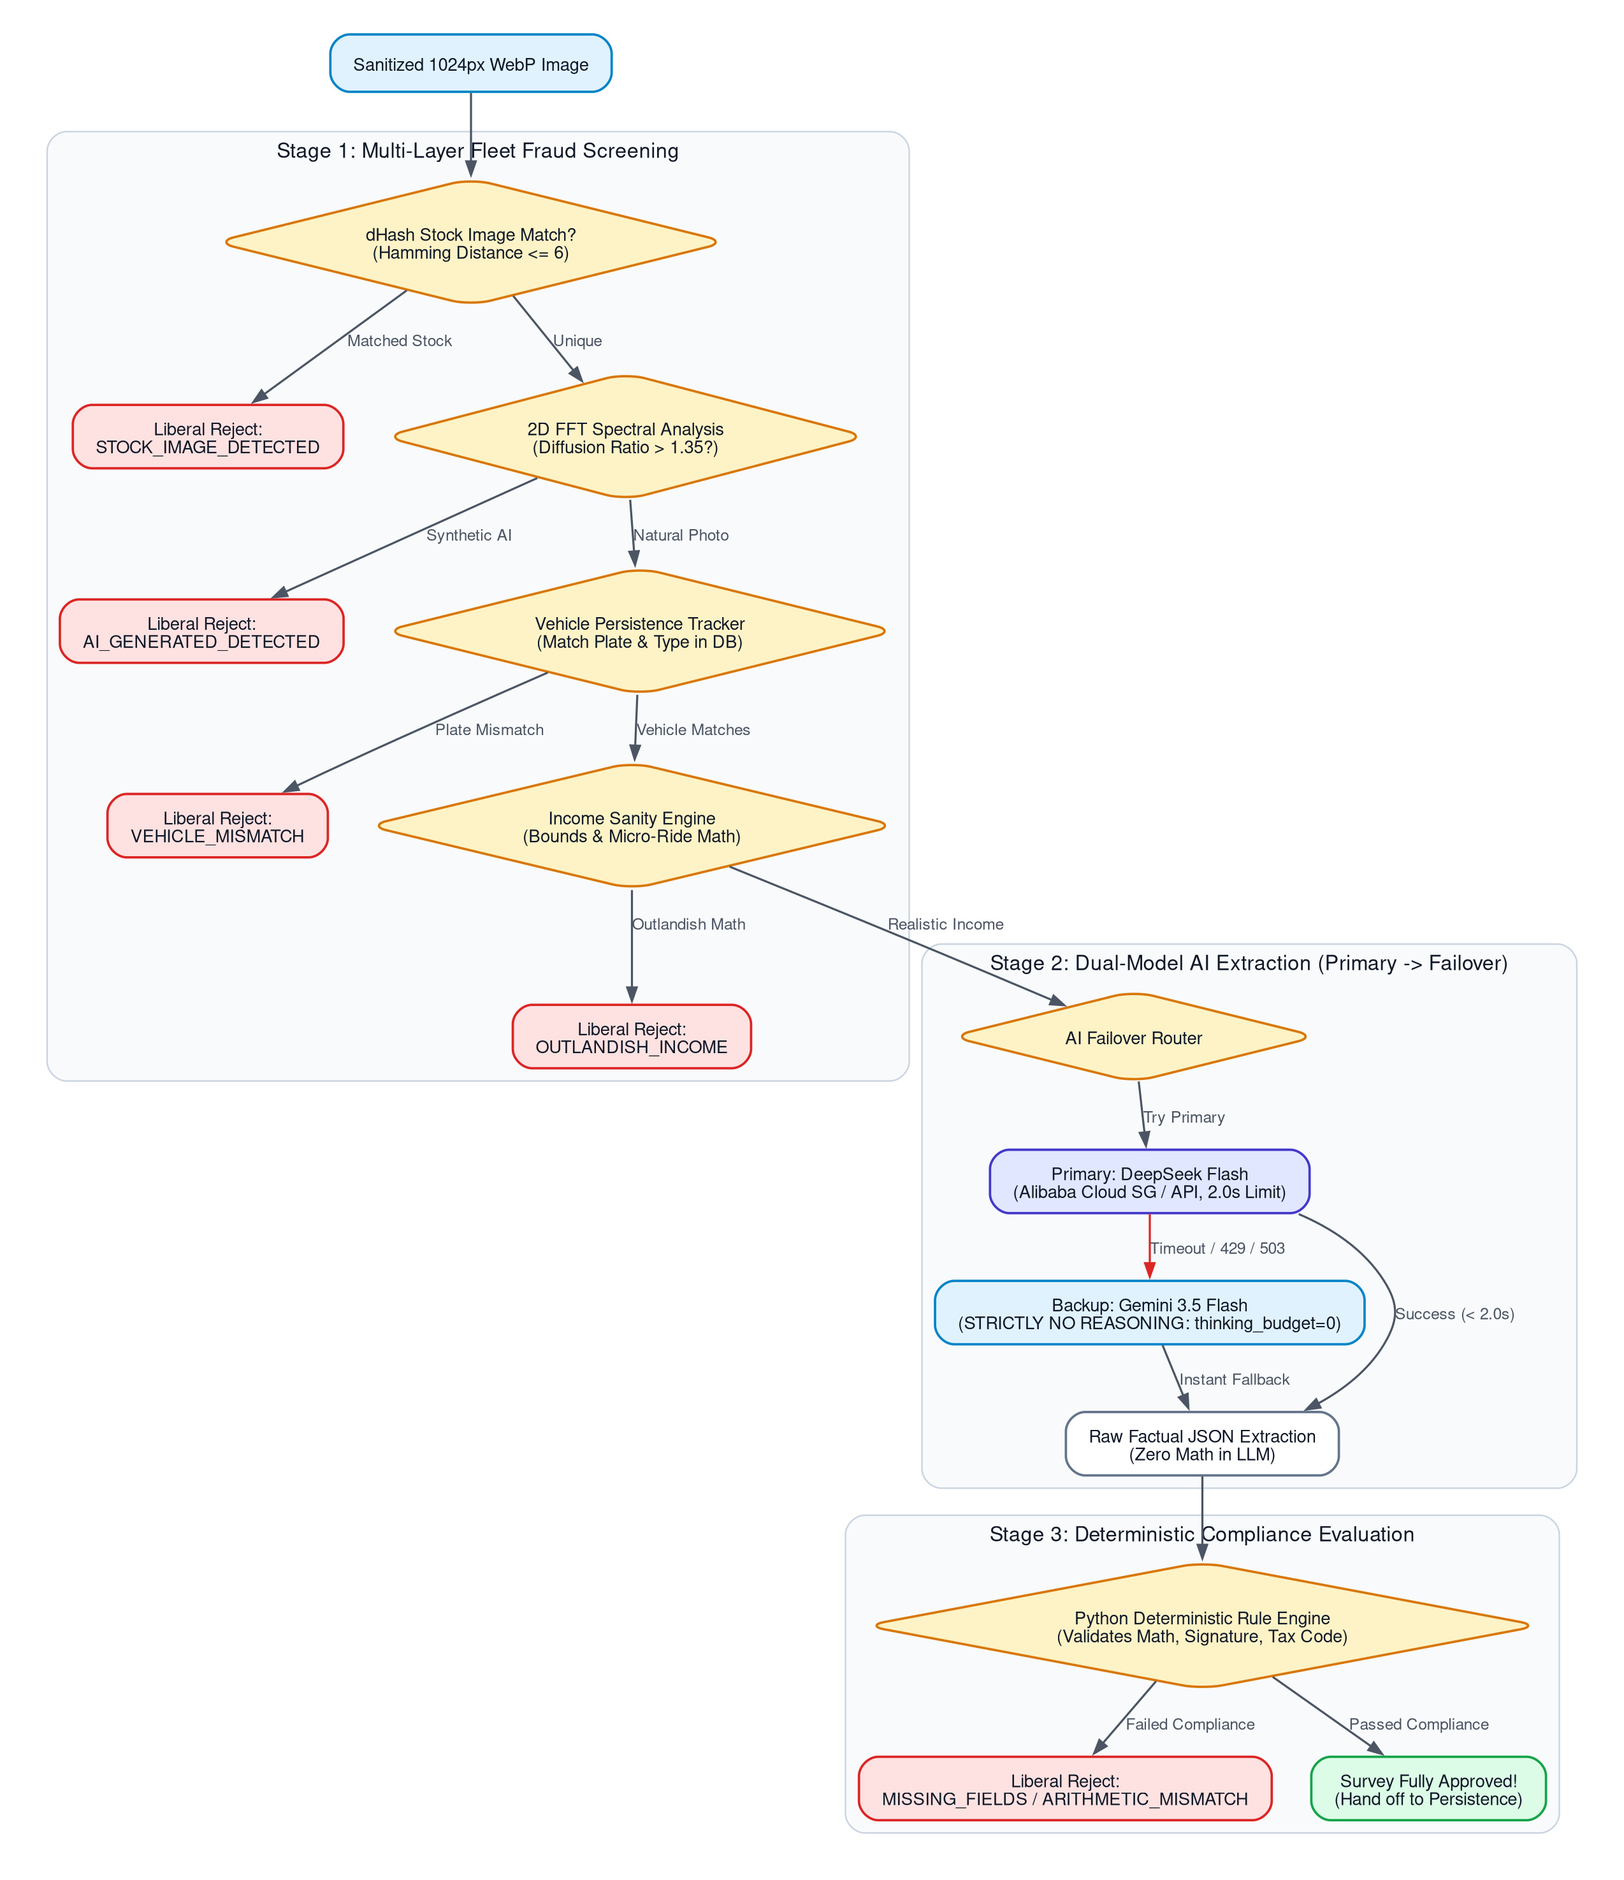
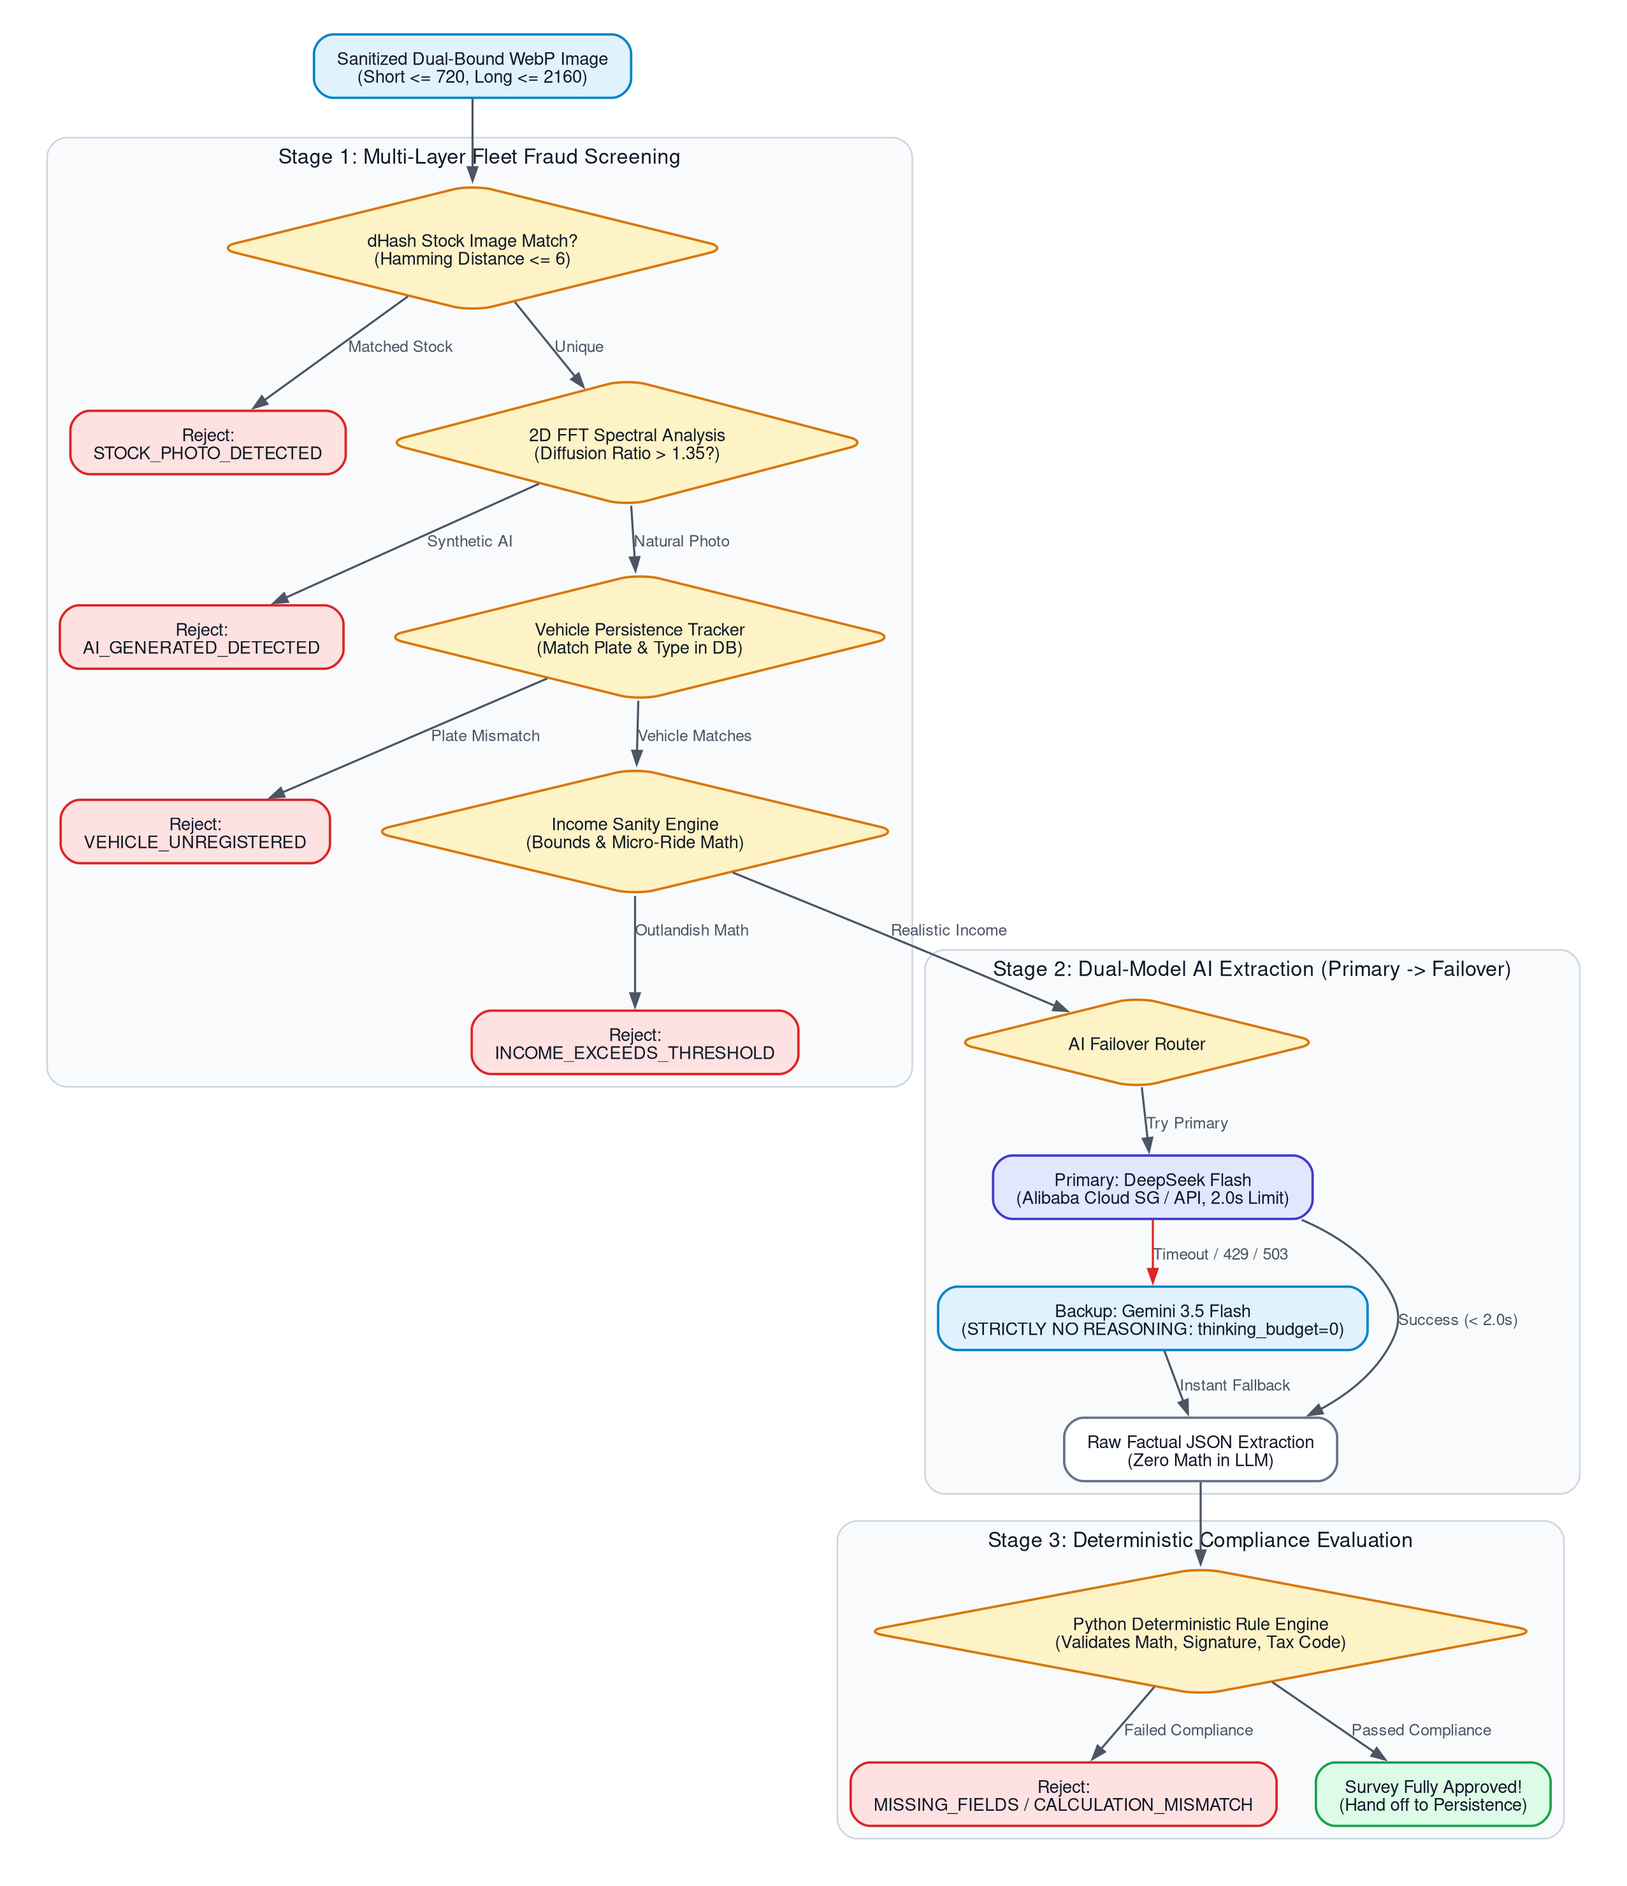
docs: re-render all 7 flowcharts with 720x2160 dual-edge bounds and ribbon protection

diff --git a/render_charts.py b/render_charts.py
@@ -64,7 +64,7 @@ CHART_1 = COMMON_HEADER + """
         caddy [label="Caddy TLS 1.3 Reverse Proxy\\n(25MB Body Cap)", fillcolor="#ffffff", color="#64748b"];
         fastapi [label="FastAPI Ingestion Gateway\\n(4 Uvicorn Workers)", fillcolor="#e0f2fe", color="#0284c7"];
         redis [label="Redis 7 Cache & Queue\\n(Session Locks & 3/8h Appeal Limit)", fillcolor="#fee2e2", color="#dc2626"];
-        sanitizer [label="In-Memory Sanitizer\\n(EXIF, ELA, Blur, Exposure)", fillcolor="#ffffff", color="#64748b"];
+        sanitizer [label="In-Memory Dual-Bound Sanitizer\\n(Short <= 720, Long <= 2160 WebP)", fillcolor="#ffffff", color="#64748b"];
         dual_ai [label="Dual AI Vision Extraction\\nPrimary: DeepSeek Flash (2.0s)\\nBackup: Gemini 3.5 (No Reasoning)", fillcolor="#e0e7ff", color="#4338ca"];
         rules [label="Python Deterministic Rule Engine\\n(Immune to Prompt Injection)", fillcolor="#dcfce7", color="#16a34a"];
         outbox_worker [label="Background Outbox Worker\\n(SKIP LOCKED Poller)", fillcolor="#fef3c7", color="#d97706"];
@@ -81,7 +81,7 @@ CHART_1 = COMMON_HEADER + """
         r2 [label="Cloudflare R2 Storage\\n(Permanent $0 Egress Archive)", fillcolor="#fef3c7", color="#d97706"];
         gdrive [label="Google Drive Folder\\n(Customer Deliverable Reports & Photos)", fillcolor="#dcfce7", color="#16a34a"];
         lark_cloud [label="Bytedance Lark Cloud Workspace\\n(Admin Grid, QC Kanban, Telesales)", fillcolor="#ede9fe", color="#7c3aed"];
-        zns [label="Zalo ZNS Gateway\\n(Official Thank-You to Driver - No Consent)", fillcolor="#e0f2fe", color="#0284c7"];
+        zns [label="Zalo ZNS Gateway\\n(Official Thank-You to Driver Phone)", fillcolor="#e0f2fe", color="#0284c7"];
     }
 
     driver -> caddy [label="Submit Form"];
@@ -164,30 +164,30 @@ digraph G {
         exif_scan [label="Scan EXIF Tag 305\\n(Detect Photoshop, Canva, Snapseed, Lightroom)", fillcolor="#ffffff", color="#64748b"];
         ela_scan [label="Error Level Analysis (ELA)\\n(Detect Localized Splicing/Cloning)", fillcolor="#ffffff", color="#64748b"];
         tamper_gate [label="Digital Tampering Found?", shape=diamond, fillcolor="#fef3c7", color="#d97706"];
-        rej_tamper [label="Liberal Reject:\\nDIGITAL_TAMPERING", fillcolor="#fee2e2", color="#dc2626"];
+        rej_tamper [label="Reject:\\nDIGITAL_TAMPERING", fillcolor="#fee2e2", color="#dc2626"];
     }
 
     subgraph cluster_normalize {
         label="Stage 2: In-Memory Normalization & Bug Elimination";
         style="rounded,filled"; fillcolor="#f8fafc"; color="#cbd5e1";
-        draft_scale [label="libjpeg C Draft Scaling\\nim.draft('RGB', (1024, 1024))\\n(85% RAM Reduction)", fillcolor="#ffffff", color="#64748b"];
+        draft_scale [label="libjpeg C Draft Scaling\\nim.draft('RGB', (720, 720))\\n(85% RAM Reduction)", fillcolor="#ffffff", color="#64748b"];
         exif_trans [label="Pillow exif_transpose\\n(Auto-Rotate Mobile Orientation)", fillcolor="#ffffff", color="#64748b"];
         purge_exif [label="Purge EXIF Metadata (exif=b'')\\n(Kills Double-Rotation Bug)", fillcolor="#ffffff", color="#64748b"];
         alpha_canvas [label="White Canvas Alpha Composite\\n(Kills RGBA/P Blackout Bug)", fillcolor="#ffffff", color="#64748b"];
-        webp_enc [label="Lanczos 1024px WebP Encoding\\n(Quality 82, ~49KB Payload)", fillcolor="#ffffff", color="#64748b"];
+        webp_enc [label="Lanczos Dual-Bound WebP Encoding\\n(Short <= 720, Long <= 2160, Ratio <= 6)\\n(Quality 82, ~49KB Payload)", fillcolor="#ffffff", color="#64748b"];
     }
 
     subgraph cluster_quality {
         label="Stage 3: Physical Quality & Exposure Pre-Filters";
         style="rounded,filled"; fillcolor="#f8fafc"; color="#cbd5e1";
         blur_gate [label="OpenCV Laplacian Blur Check\\n(Variance >= 100.0)", shape=diamond, fillcolor="#fef3c7", color="#d97706"];
-        rej_blur [label="Liberal Reject:\\nIMAGE_TOO_BLURRY", fillcolor="#fee2e2", color="#dc2626"];
+        rej_blur [label="Reject:\\nIMAGE_TOO_BLURRY", fillcolor="#fee2e2", color="#dc2626"];
         is_screen [label="Digital UI Screenshot Check\\n(is_digital_screenshot)", shape=diamond, fillcolor="#fef3c7", color="#d97706"];
         exempt_screen [label="EXEMPT From Exposure Checks\\n(Dark Mode & Light Themes 100% Safe)", fillcolor="#dcfce7", color="#16a34a"];
         p95_check [label="Physical Photo: 95th Percentile\\np95 Peak Brightness < 35?", shape=diamond, fillcolor="#fef3c7", color="#d97706"];
-        rej_dark [label="Liberal Reject:\\nIMAGE_TOO_DARK", fillcolor="#fee2e2", color="#dc2626"];
+        rej_dark [label="Reject:\\nIMAGE_TOO_DARK", fillcolor="#fee2e2", color="#dc2626"];
         glare_check [label="Specular Glare Check\\n(Flash Halo Destroys Text Edges?)", shape=diamond, fillcolor="#fef3c7", color="#d97706"];
-        rej_glare [label="Liberal Reject:\\nSPECULAR_GLARE", fillcolor="#fee2e2", color="#dc2626"];
+        rej_glare [label="Reject:\\nSPECULAR_GLARE", fillcolor="#fee2e2", color="#dc2626"];
         pass_quality [label="Quality Gate PASSED\\n(Hand off to Fleet Screening & AI)", fillcolor="#dcfce7", color="#16a34a"];
     }
 
@@ -214,19 +214,19 @@ digraph G {
     node [fontname="Helvetica, Arial, sans-serif", fontsize=11, fontcolor="#111827", shape=box, style="rounded,filled", fillcolor="#f9fafb", color="#9ca3af", penwidth=1.5, margin="0.2,0.12"];
     edge [fontname="Helvetica, Arial, sans-serif", fontsize=10, fontcolor="#4b5563", color="#4b5563", penwidth=1.3, arrowsize=0.85];
 
-    img_in [label="Sanitized 1024px WebP Image", fillcolor="#e0f2fe", color="#0284c7"];
+    img_in [label="Sanitized Dual-Bound WebP Image\\n(Short <= 720, Long <= 2160)", fillcolor="#e0f2fe", color="#0284c7"];
 
     subgraph cluster_fleet_fraud {
         label="Stage 1: Multi-Layer Fleet Fraud Screening";
         style="rounded,filled"; fillcolor="#f8fafc"; color="#cbd5e1";
         dhash [label="dHash Stock Image Match?\\n(Hamming Distance <= 6)", shape=diamond, fillcolor="#fef3c7", color="#d97706"];
-        rej_stock [label="Liberal Reject:\\nSTOCK_IMAGE_DETECTED", fillcolor="#fee2e2", color="#dc2626"];
+        rej_stock [label="Reject:\\nSTOCK_PHOTO_DETECTED", fillcolor="#fee2e2", color="#dc2626"];
         fft [label="2D FFT Spectral Analysis\\n(Diffusion Ratio > 1.35?)", shape=diamond, fillcolor="#fef3c7", color="#d97706"];
-        rej_ai [label="Liberal Reject:\\nAI_GENERATED_DETECTED", fillcolor="#fee2e2", color="#dc2626"];
+        rej_ai [label="Reject:\\nAI_GENERATED_DETECTED", fillcolor="#fee2e2", color="#dc2626"];
         veh_tracker [label="Vehicle Persistence Tracker\\n(Match Plate & Type in DB)", shape=diamond, fillcolor="#fef3c7", color="#d97706"];
-        rej_veh [label="Liberal Reject:\\nVEHICLE_MISMATCH", fillcolor="#fee2e2", color="#dc2626"];
+        rej_veh [label="Reject:\\nVEHICLE_UNREGISTERED", fillcolor="#fee2e2", color="#dc2626"];
         income_check [label="Income Sanity Engine\\n(Bounds & Micro-Ride Math)", shape=diamond, fillcolor="#fef3c7", color="#d97706"];
-        rej_income [label="Liberal Reject:\\nOUTLANDISH_INCOME", fillcolor="#fee2e2", color="#dc2626"];
+        rej_income [label="Reject:\\nINCOME_EXCEEDS_THRESHOLD", fillcolor="#fee2e2", color="#dc2626"];
     }
 
     subgraph cluster_dual_ai {
@@ -242,7 +242,7 @@ digraph G {
         label="Stage 3: Deterministic Compliance Evaluation";
         style="rounded,filled"; fillcolor="#f8fafc"; color="#cbd5e1";
         py_rules [label="Python Deterministic Rule Engine\\n(Validates Math, Signature, Tax Code)", shape=diamond, fillcolor="#fef3c7", color="#d97706"];
-        rej_rules [label="Liberal Reject:\\nMISSING_FIELDS / ARITHMETIC_MISMATCH", fillcolor="#fee2e2", color="#dc2626"];
+        rej_rules [label="Reject:\\nMISSING_FIELDS / CALCULATION_MISMATCH", fillcolor="#fee2e2", color="#dc2626"];
         approved [label="Survey Fully Approved!\\n(Hand off to Persistence)", fillcolor="#dcfce7", color="#16a34a"];
     }
 
@@ -279,6 +279,7 @@ CHART_5 = COMMON_HEADER + """
         sql_tx [label="PostgreSQL Atomic Transaction\\n(BEGIN ... COMMIT)", fillcolor="#ffffff", color="#64748b"];
         sub_table [label="INSERT survey_submissions\\n(status = APPROVED)", fillcolor="#e0f2fe", color="#0284c7"];
         outbox_table [label="INSERT outbox_events\\n(status = PENDING)", fillcolor="#fee2e2", color="#dc2626"];
+        tg_push [label="Telegram Bot API Push\\n(Dispatches Instant Approval Notice to Driver)", fillcolor="#e0f2fe", color="#0284c7"];
 
         poller [label="Background Outbox Worker\\n(SELECT FOR UPDATE SKIP LOCKED)", fillcolor="#fef3c7", color="#d97706"];
         r2_upload [label="Cloudflare R2 Object Storage\\n(Upload WebP, $0 Egress)", fillcolor="#ffffff", color="#64748b"];
@@ -288,12 +289,12 @@ CHART_5 = COMMON_HEADER + """
         gdrive_folder [label="Customer Delivery Folder\\n(YYYY-MM-DD/Client_Spreadsheet.xlsx)", fillcolor="#dcfce7", color="#16a34a"];
 
         lark_sync [label="Lark Base Bi-directional Sync\\n(Updates Management Dashboard)", fillcolor="#ede9fe", color="#7c3aed"];
-        zns_notify [label="Zalo ZNS Official Thank-You\\n(Delivered to Driver Phone - No Consent)", fillcolor="#e0f2fe", color="#0284c7"];
+        zns_notify [label="Zalo ZNS Official Thank-You\\n(Delivered to Driver Phone)", fillcolor="#e0f2fe", color="#0284c7"];
     }
-
     approved_in -> sql_tx;
     sql_tx -> sub_table;
     sql_tx -> outbox_table;
+    sub_table -> tg_push [label="Committed State -> Immediate Push"];
     outbox_table -> poller [label="Poll Events"];
     poller -> r2_upload;
     poller -> ledger_credit;
@@ -310,47 +311,52 @@ digraph G {
     node [fontname="Helvetica, Arial, sans-serif", fontsize=11, fontcolor="#111827", shape=box, style="rounded,filled", fillcolor="#f9fafb", color="#9ca3af", penwidth=1.5, margin="0.2,0.12"];
     edge [fontname="Helvetica, Arial, sans-serif", fontsize=10, fontcolor="#4b5563", color="#4b5563", penwidth=1.3, arrowsize=0.85];
 
-    subgraph cluster_group_hub {
-        label="1. Telegram Group Operational Hub (Drivers + Admins + Bot in Same Group)";
+    subgraph cluster_driver_flow {
+        label="1. Driver Private 1-to-1 Chat (Isolated & Privacy-Guaranteed)";
         style="rounded,filled"; fillcolor="#f8fafc"; color="#cbd5e1";
-        tg_group [label="Telegram Group Chat / Forum\\n(Drivers interact with Bot; Admins monitor all activity live)", fillcolor="#e0f2fe", color="#0284c7"];
-        driver_post [label="Driver Interacts in Group:\\nPosts replacement photo / taps buttons / asks bot", fillcolor="#ffffff", color="#64748b"];
-        bot_reply [label="Bot Direct Reply in Group:\\nQuotes driver with specific retake guidance & inline buttons", fillcolor="#dcfce7", color="#16a34a"];
-        admin_monitor [label="Admins Live Oversight:\\nAdmins see all driver uploads, tickets & bot replies in real time", fillcolor="#fef3c7", color="#d97706"];
+        driver_dm [label="Driver in Private 1-to-1 DM with Bot\\n(Driver strictly sees ONLY their own chat & results)", fillcolor="#e0f2fe", color="#0284c7"];
+        bot_msg [label="Bot Rejection / Notice in DM:\\nQuotes exact guidance & shows appeal button", fillcolor="#dcfce7", color="#16a34a"];
+        retake_photo [label="Driver Snaps & Sends Replacement Photo in DM\\n(Patches Slot in DB & R2 -> Approved!)", fillcolor="#dcfce7", color="#16a34a"];
+        appeal_btn [label="Driver Taps Inline Button in DM:\\n🙋 Yêu cầu kiểm tra lại", fillcolor="#fef3c7", color="#d97706"];
+    }
+
+    subgraph cluster_relay_group {
+        label="2. Management Group Relay & Live Supervision (All Activity Forwarded)";
+        style="rounded,filled"; fillcolor="#f8fafc"; color="#cbd5e1";
+        admin_group [label="Telegram Management / Admin Group(s)\\n(Bot relays ALL driver messages, photos & bot replies live)", fillcolor="#fef3c7", color="#d97706"];
+        mod_action [label="Admins Moderate Directly in Group\\n1-Click Buttons: [Duyệt] [Từ chối] [Cảnh cáo] [Đổi xe]", fillcolor="#ffffff", color="#64748b"];
     }
 
     subgraph cluster_appeal_limit {
-        label="2. Rate-Limited Appeal & Ephemeral Privacy Popups";
+        label="3. Rate-Limited Appeal & Quota Notification (Max 3 / 8h)";
         style="rounded,filled"; fillcolor="#f8fafc"; color="#cbd5e1";
-        appeal_btn [label="Driver Taps Inline Button in Group:\\n🙋 Yêu cầu người thật kiểm tra lại", fillcolor="#fef3c7", color="#d97706"];
         redis_limit [label="Redis Counter Check:\\nAppeals in Last 8 Hours?", shape=diamond, fillcolor="#fef3c7", color="#d97706"];
-        block_popup [label="Ephemeral Popup Alert (showAlert=True):\\nBẠN ĐÃ DÙNG HẾT LƯỢT KHIẾU NẠI TRONG 8H\\n(Only tapping driver sees popup; others see nothing!)", fillcolor="#fee2e2", color="#dc2626"];
-        allow_appeal [label="Allow Appeal (<= 3 in 8h):\\nIncrement 8h Counter & Alert Admins in Group", fillcolor="#dcfce7", color="#16a34a"];
+        block_popup [label="Block Appeal (> 3 in 8h):\\nBẠN ĐÃ DÙNG HẾT LƯỢT KHIẾU NẠI TRONG 8H\\n(Driver informed of quota exhaustion)", fillcolor="#fee2e2", color="#dc2626"];
+        allow_appeal [label="Allow Appeal (<= 3 in 8h):\\nIncrement 8h Counter & Forward Ticket to Management Group\\n(Bot notifies: Còn X/3 lượt trong 8h)", fillcolor="#dcfce7", color="#16a34a"];
     }
 
-    subgraph cluster_admin_controls {
-        label="3. Admin Live Moderation & Dispatch Controls";
-        style="rounded,filled"; fillcolor="#f8fafc"; color="#cbd5e1";
-        mod_action [label="Admins Moderate Directly in Group\\n1-Click Buttons: [Duyệt] [Từ chối] [Cảnh cáo]", fillcolor="#ffffff", color="#64748b"];
-        mod_dispatch [label="Admin Action Choice", shape=diamond, fillcolor="#fef3c7", color="#d97706"];
-        action_approve [label="Force Approve:\\nPatch status=APPROVED -> Credit payout & sync client", fillcolor="#dcfce7", color="#16a34a"];
-        action_reject [label="Confirm Reject:\\nBot informs driver with reason code in group thread", fillcolor="#fee2e2", color="#dc2626"];
-        action_warn [label="Formal Warning:\\nBot issues compliance warning to driver", fillcolor="#fee2e2", color="#dc2626"];
-    }
-
-    tg_group -> driver_post -> bot_reply;
-    tg_group -> admin_monitor;
-    bot_reply -> appeal_btn -> redis_limit;
+    driver_dm -> bot_msg;
+    bot_msg -> retake_photo;
+    bot_msg -> appeal_btn -> redis_limit;
     redis_limit -> block_popup [label="> 3 Appeals"];
     redis_limit -> allow_appeal [label="<= 3 Appeals"];
-    allow_appeal -> mod_action;
+    allow_appeal -> admin_group;
+    driver_dm -> admin_group [label="Bot Relays All Activity", color="#0284c7"];
+    bot_msg -> admin_group [label="Bot Relays All Activity", color="#0284c7"];
+    admin_group -> mod_action;
+    mod_dispatch [label="Admin Action Choice", shape=diamond, fillcolor="#fef3c7", color="#d97706"];
+    action_approve [label="[Duyệt] -> Payout Credited & Client Synced", fillcolor="#dcfce7", color="#16a34a"];
+    action_reject [label="[Từ chối] -> Rejection Confirmed", fillcolor="#fee2e2", color="#dc2626"];
+    action_warn [label="[Cảnh cáo] -> Warning Dispatched", fillcolor="#fee2e2", color="#dc2626"];
+    action_change [label="[Đổi xe] -> Update Persistent Vehicle Plate & Audit", fillcolor="#ede9fe", color="#7c3aed"];
 
     mod_action -> mod_dispatch;
-    mod_dispatch -> action_approve [label="[Duyệt]"];
-    mod_dispatch -> action_reject [label="[Từ chối]"];
-    mod_dispatch -> action_warn [label="[Cảnh cáo]"];
-    action_approve -> bot_reply;
-    action_reject -> bot_reply;
+    mod_dispatch -> action_approve [label="Click Duyệt"];
+    mod_dispatch -> action_reject [label="Click Từ chối"];
+    mod_dispatch -> action_warn [label="Click Cảnh cáo"];
+    mod_dispatch -> action_change [label="Click Đổi xe"];
+    action_approve -> driver_dm [label="Relayed to Driver DM", color="#16a34a"];
+    action_reject -> driver_dm [label="Relayed to Driver DM", color="#dc2626"];
 }
 """
 
